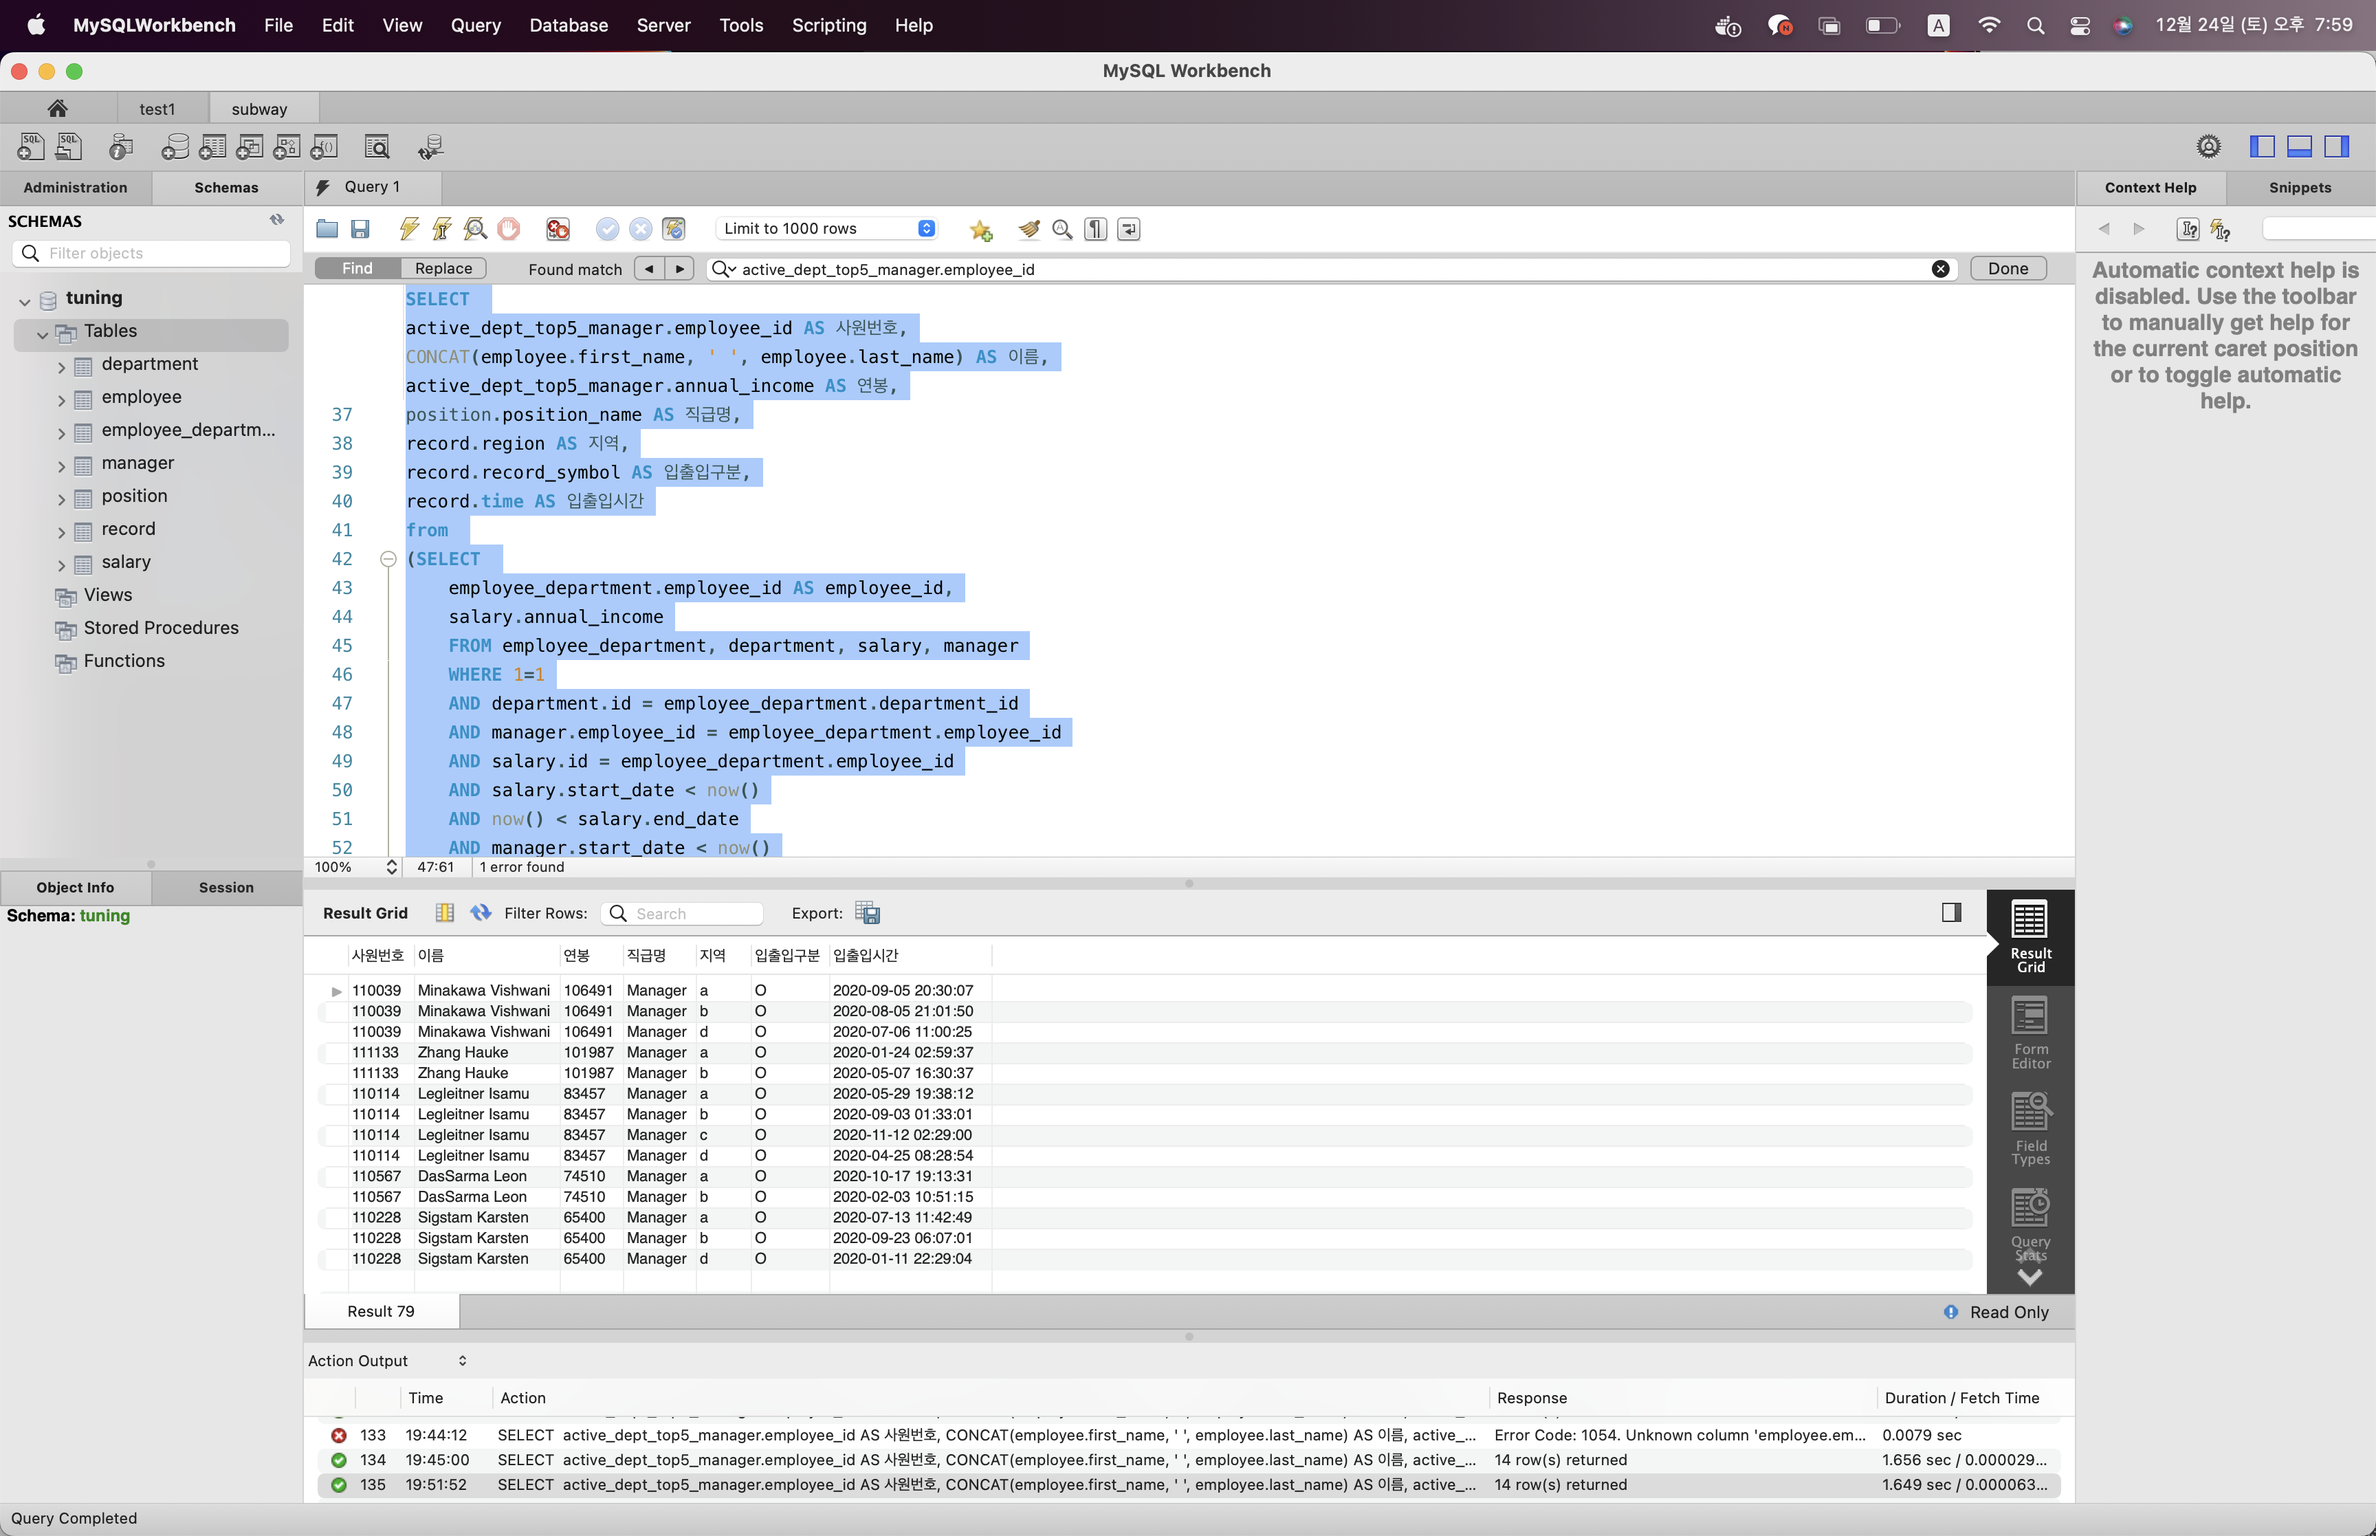
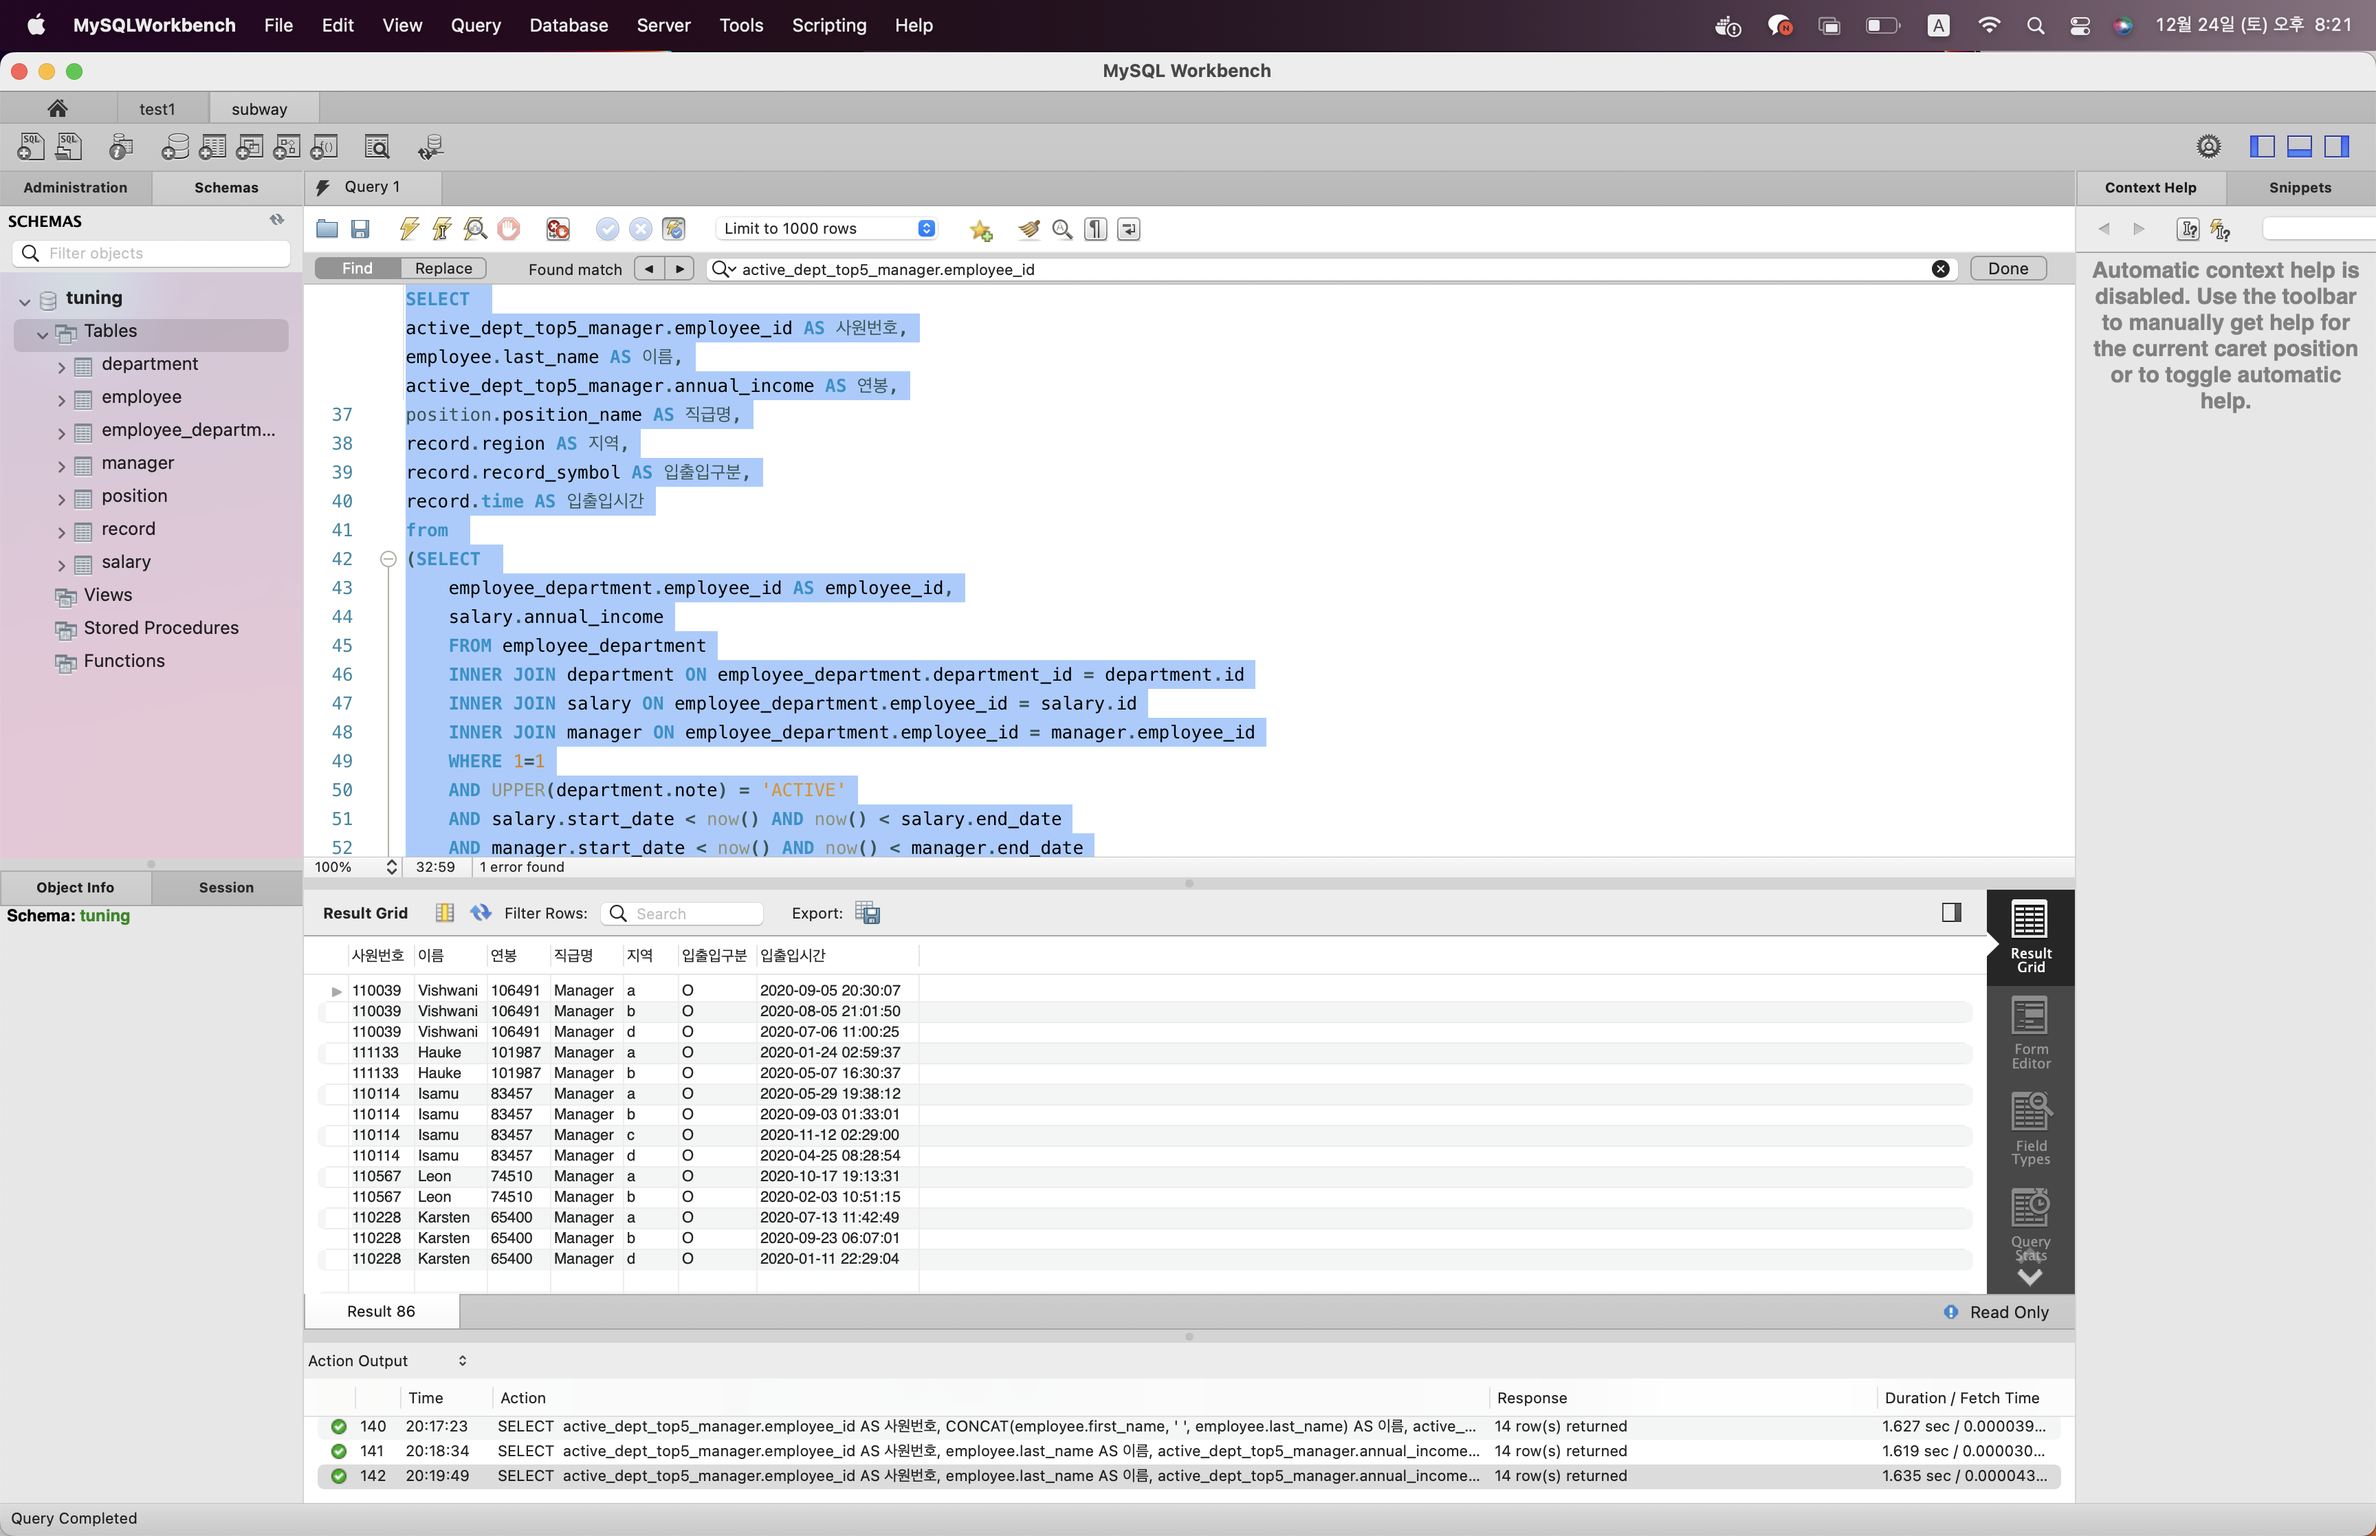
refactor - from 절 안의 select문 ANSI쿼리로 수정

diff --git a/README.md b/README.md
@@ -87,36 +87,34 @@ $ stress -c 2
 ### 3단계 - 쿼리 최적화
 
 1. 인덱스 설정을 추가하지 않고 아래 요구사항에 대해 1s 이하(M1의 경우 2s)로 반환하도록 쿼리를 작성하세요.
-
-SELECT
-active_dept_top5_manager.employee_id AS 사원번호,
-CONCAT(employee.first_name, ' ', employee.last_name) AS 이름,
-active_dept_top5_manager.annual_income AS 연봉,
-position.position_name AS 직급명,
-record.region AS 지역,
-record.record_symbol AS 입출입구분,
-record.time AS 입출입시간
-from
-(SELECT
-employee_department.employee_id AS employee_id,
-salary.annual_income
-FROM employee_department, department, salary, manager
-WHERE 1=1
-AND department.id = employee_department.department_id
-AND manager.employee_id = employee_department.employee_id
-AND salary.id = employee_department.employee_id
-AND salary.start_date < now()
-AND now() < salary.end_date
-AND manager.start_date < now()
-AND now() < manager.end_date
-AND UPPER(department.note) = 'ACTIVE'
-order by salary.annual_income desc limit 5) active_dept_top5_manager
-INNER JOIN employee ON active_dept_top5_manager.employee_id = employee.id
-INNER JOIN position ON active_dept_top5_manager.employee_id = position.id
-INNER JOIN record ON active_dept_top5_manager.employee_id = record.employee_id
-WHERE 1=1
-AND record.record_symbol = 'O'
-AND UPPER(position.position_name) = 'MANAGER';
+-쿼리
+   SELECT
+   active_dept_top5_manager.employee_id AS 사원번호,
+   employee.last_name AS 이름,
+   active_dept_top5_manager.annual_income AS 연봉,
+   position.position_name AS 직급명,
+   record.region AS 지역,
+   record.record_symbol AS 입출입구분,
+   record.time AS 입출입시간
+   from
+   (SELECT
+   employee_department.employee_id AS employee_id,
+   salary.annual_income
+   FROM employee_department
+   INNER JOIN department ON employee_department.department_id = department.id
+   INNER JOIN salary ON employee_department.employee_id = salary.id
+   INNER JOIN manager ON employee_department.employee_id = manager.employee_id
+   WHERE 1=1
+   AND UPPER(department.note) = 'ACTIVE'
+   AND salary.start_date < now() AND now() < salary.end_date
+   AND manager.start_date < now() AND now() < manager.end_date
+   order by salary.annual_income desc limit 5) active_dept_top5_manager
+   INNER JOIN employee ON active_dept_top5_manager.employee_id = employee.id
+   INNER JOIN position ON active_dept_top5_manager.employee_id = position.id
+   INNER JOIN record ON active_dept_top5_manager.employee_id = record.employee_id
+   WHERE 1=1
+   AND UPPER(position.position_name) = 'MANAGER'
+   AND record.record_symbol = 'O';
 
 - 활동중인(Active) 부서의 현재 부서관리자 중 연봉 상위 5위안에 드는 사람들이 최근에 각 지역별로 언제 퇴실했는지 조회해보세요. (사원번호, 이름, 연봉, 직급명, 지역, 입출입구분, 입출입시간)
 
